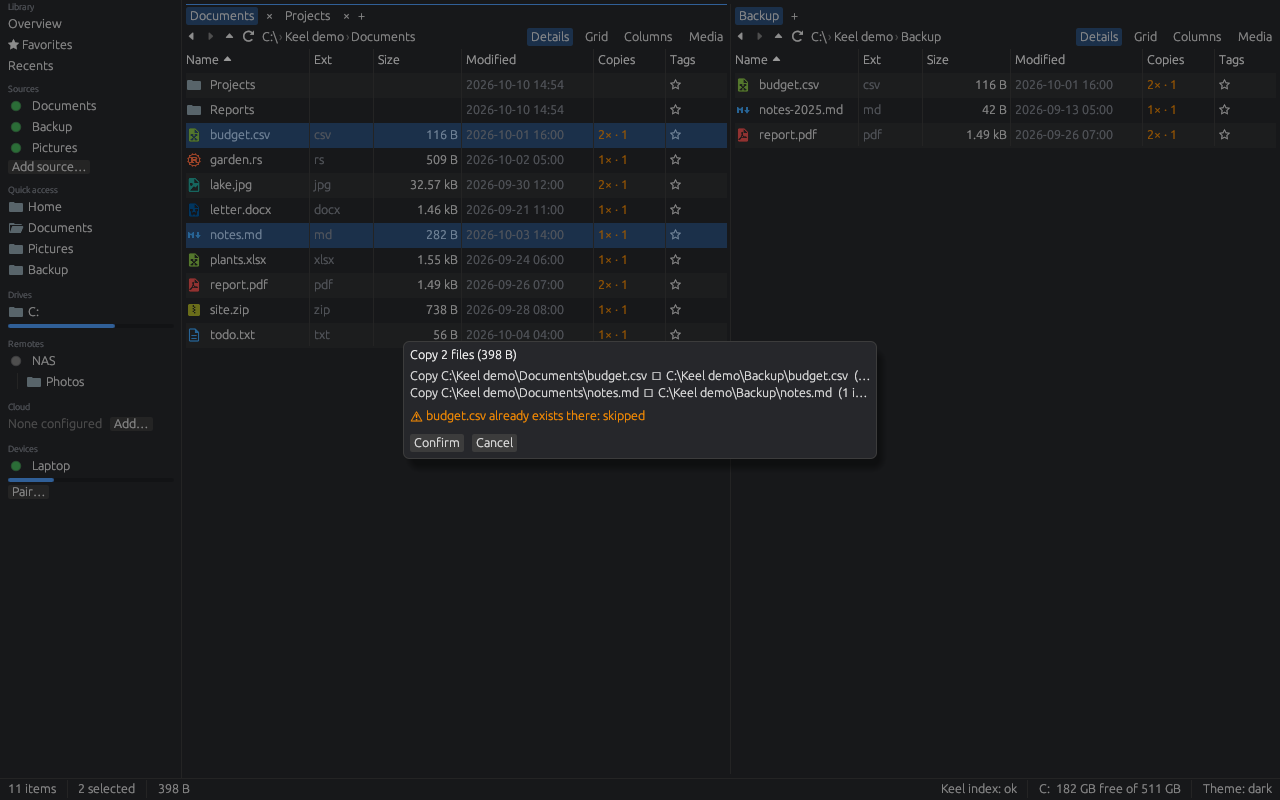
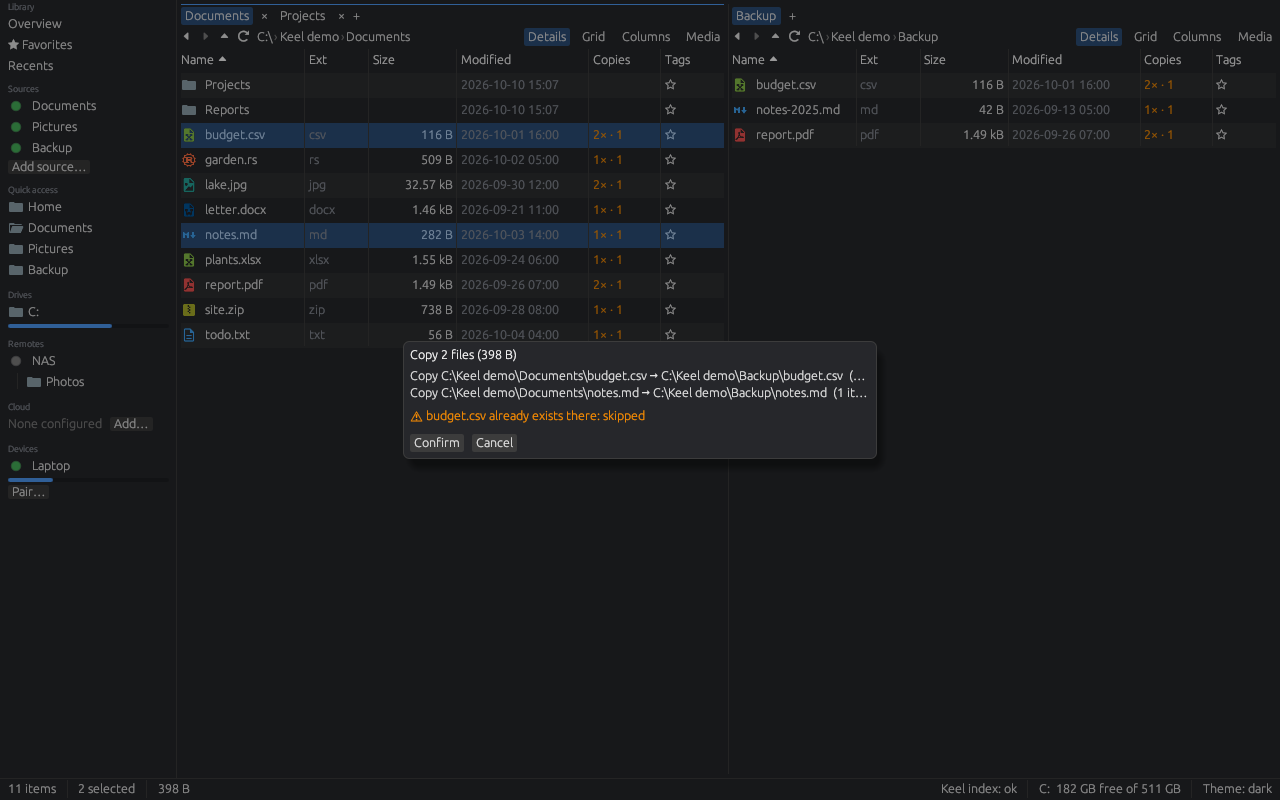
fix(app): arrows and symbols render
Ubuntu Light, egui's interface font, has no U+2192 or U+22EF, so "Copy A -> B"
in the copy preview and "Off (Settings -> Library)" showed a box. Hack, the
monospace font egui already embeds, is now the last fallback of proportional
text as well: no new font file. The two dismiss buttons that used U+2715,
which no built-in font has, use the multiplication sign like the other close
buttons. A test scans keel-app's non-test string and char literals and checks
every non-ASCII character has a glyph in both families. copy-preview.png
regenerated.

diff --git a/crates/keel-app/src/theme.rs b/crates/keel-app/src/theme.rs
@@ -103,9 +103,115 @@ impl Themes {
     }
 }
 
+/// egui's built-in fonts, with Hack (already built in, the monospace font) as the last
+/// fallback of proportional text too: Ubuntu Light has no arrows ("Settings \u{2192}
+/// Library", "Copy A \u{2192} B") and no "\u{22ef}".
+pub fn fonts() -> egui::FontDefinitions {
+    let mut fonts = egui::FontDefinitions::default();
+    fonts
+        .families
+        .entry(egui::FontFamily::Proportional)
+        .or_default()
+        .push("Hack".into());
+    fonts
+}
+
 #[cfg(test)]
 mod tests {
     use super::{Theme, Themes};
+
+    /// Every non-ASCII character in a string or char literal of keel-app's non-test code
+    /// (test modules, `*_tests.rs` and the screenshot harness are skipped), with a file
+    /// it is in.
+    fn ui_symbols() -> std::collections::BTreeMap<char, String> {
+        let mut found = std::collections::BTreeMap::new();
+        let mut dirs = vec![std::path::Path::new(env!("CARGO_MANIFEST_DIR")).join("src")];
+        while let Some(dir) = dirs.pop() {
+            for e in std::fs::read_dir(&dir).unwrap().flatten() {
+                let path = e.path();
+                if path.is_dir() {
+                    dirs.push(path);
+                    continue;
+                }
+                let name = path.file_name().unwrap().to_string_lossy();
+                if !name.ends_with(".rs") || name.ends_with("_tests.rs") || name == "screenshots.rs"
+                {
+                    continue;
+                }
+                let text = std::fs::read_to_string(&path)
+                    .unwrap()
+                    .replace("\r\n", "\n");
+                let code = text.split("\n#[cfg(test)]\nmod tests").next().unwrap();
+                let s: Vec<char> = code.chars().collect();
+                let mut add = |c: char| {
+                    found.entry(c).or_insert_with(|| path.display().to_string());
+                };
+                let mut i = 0;
+                while i < s.len() {
+                    match s[i] {
+                        '/' if s.get(i + 1) == Some(&'/') => {
+                            while i < s.len() && s[i] != '\n' {
+                                i += 1;
+                            }
+                        }
+                        '"' => {
+                            i += 1;
+                            while i < s.len() && s[i] != '"' {
+                                if !s[i].is_ascii() {
+                                    add(s[i]);
+                                }
+                                i += if s[i] == '\\' { 2 } else { 1 };
+                            }
+                        }
+                        // Char literals ('"' must not open a string); lifetimes pass.
+                        '\'' if s.get(i + 1) == Some(&'\\') => {
+                            i += 3;
+                            while i < s.len() && s[i] != '\'' {
+                                i += 1;
+                            }
+                        }
+                        '\'' if s.get(i + 2) == Some(&'\'') => {
+                            if !s[i + 1].is_ascii() {
+                                add(s[i + 1]);
+                            }
+                            i += 2;
+                        }
+                        _ => {}
+                    }
+                    i += 1;
+                }
+            }
+        }
+        found
+    }
+
+    /// Found making the screenshots: the arrow drew as a box. Every symbol the UI's
+    /// strings use has a glyph in the proportional and the monospace fonts.
+    #[test]
+    fn every_ui_symbol_has_a_glyph() {
+        let ctx = egui::Context::default();
+        ctx.set_fonts(super::fonts());
+        let _ = ctx.run(egui::RawInput::default(), |_| {});
+        let symbols = ui_symbols();
+        for c in ['\u{2192}', '\u{2026}', '\u{d7}', '\u{2022}', '\u{22ef}'] {
+            assert!(
+                symbols.contains_key(&c),
+                "{c} not found: the scan is broken"
+            );
+        }
+        for (c, file) in symbols {
+            for font in [
+                egui::FontId::proportional(14.0),
+                egui::FontId::monospace(14.0),
+            ] {
+                assert!(
+                    ctx.fonts(|f| f.has_glyph(&font, c)),
+                    "{c:?} (U+{:04X}, {file}) has no glyph in {font:?}",
+                    c as u32
+                );
+            }
+        }
+    }
 
     #[test]
     fn themes_are_cached_once() {

diff --git a/crates/keel-app/src/jobs.rs b/crates/keel-app/src/jobs.rs
@@ -437,7 +437,7 @@ fn job_row(ui: &mut egui::Ui, job: &Job, dismiss: &mut Option<u64>) {
                         }
                         Some(_) if job.clears() => {}
                         Some(_) => {
-                            if ui.small_button("✕").on_hover_text("Dismiss").clicked() {
+                            if ui.small_button("×").on_hover_text("Dismiss").clicked() {
                                 *dismiss = Some(job.id);
                             }
                         }

diff --git a/crates/keel-app/src/app.rs b/crates/keel-app/src/app.rs
@@ -77,6 +77,7 @@ pub struct App {
 impl App {
     pub fn new(cc: &eframe::CreationContext, boot: Boot) -> Self {
         egui_extras::install_image_loaders(&cc.egui_ctx);
+        cc.egui_ctx.set_fonts(crate::theme::fonts());
         // Another Keel is the single instance (and holds the global hotkey).
         let not_server = boot.settings.single_instance && boot.server.is_none();
         let persist = boot

diff --git a/crates/keel-app/src/remotes.rs b/crates/keel-app/src/remotes.rs
@@ -640,7 +640,7 @@ impl Editor {
                             .hint_text("/remote/path")
                             .desired_width(250.0),
                     );
-                    if ui.small_button("✕").clicked() {
+                    if ui.small_button("×").clicked() {
                         drop_row = Some(i);
                     }
                 });

diff --git a/CHANGELOG.md b/CHANGELOG.md
@@ -11,6 +11,7 @@ All notable changes to Keel are listed here. The format follows [Keep a Changelo
 ### Fixed
 
 - Media view: with **Dates** on, a photo or video without a capture date was put under its own "Unknown date" heading instead of the day it was last modified, so a folder of such files showed one heading per row. They now share one heading per day. Found while making the screenshots.
+- The arrow in texts such as the copy preview's "Copy A → B" and "Off (Settings → Library)", and the media viewer's "⋯" menu, drew as an empty box; they now render (no new font: the built-in monospace font fills in the symbols the interface font lacks). The dismiss buttons of finished jobs and of remote bookmark rows show "×" like the other close buttons. Found while making the screenshots.
 
 ## [0.14.0] - 2026-10-10
 
